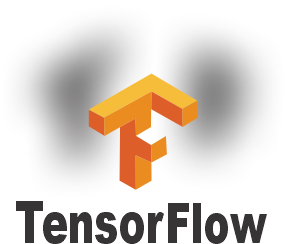
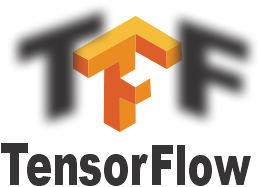
subi proyectos

diff --git a/work.html b/work.html
@@ -50,9 +50,12 @@
             <img src="/assets/icons-tech/phpmMyAdmin.png" class="icons--tech icons--tech-other icons--tech-myAdmin">
             <img src="/assets/icons-tech/c.png" class="icons--tech icons--tech-other icons--tech-c">
             <img src="/assets/icons-tech/unity.png" class="icons--tech icons--tech-other icons--tech-unity">
+            <img src="/assets/icons-tech/c-mas-mas.png" class="icons--tech icons--tech-other icons--tech-c-mas-mas">
+            <img src="/assets/icons-tech/kaggle.png" class="icons--tech icons--tech-other icons--tech-kaggle">
+            <img src="/assets/icons-tech/docker.png" class="icons--tech icons--tech-other icons--tech-docker">
         </div>
     </div>
-    <h2 class="work--title align">More Skills</h2>
+    <h2 class="work--title work--title-skills align">More Skills</h2>
     <div class="icons--container-skills between">
         <img src="/assets/icons-tech/joomla.png" class="icons--skills icons--skills-jupyter">
         <img src="/assets/icons-tech/jupyter.png" class="icons--skills icons--skills-joomla">
@@ -62,12 +65,77 @@
         <img src="/assets/icons-tech/typing.png" class="icons--skills icons--skills-typing">
         <img src="/assets/icons-tech/interpreting.png" class="icons--skills icons--skills-interpreting">
     </div>
-    <h2 class="work--title align">See my Work</h2>
-    <div class="show--container">
-        
+
+    <div class="work--seeMyWork-container">
+        <h2 class="work--title Work--title-seeMyWork align">See my Work</h2>
+        <div class="show--container">
+            <div class="show--cont show--cont-left">
+                <p class="about--titles">
+                    Full Stack
+                </p>
+                <p class="about--parrs">
+                    <div class="work--parrs">
+                        <a href="https://interpreter-ymy6.onrender.com/" target="_blank">
+                        <div class="work--parrs-cont work--parrs-interpreter">
+                            <img src="/assets/proj-img/interpreter.png" class="ocho--img">
+                            <p class="parrs--title">
+                                Interpreter
+                            </p>
+                            <p class="parrs--parr">
+                                Este es un Interpreter hecho para Cáritas, (Gratuito) tarda en cargar, 72% de Exactitud.
+                            </p>
+                        </div>
+                        </a>
+                        <a href="https://calculadora-pmcl.onrender.com/" target="_blank">
+                        <div class="work--parrs-cont work--parrs-interpreter">
+                            <img src="/assets/proj-img/calculadora.png" class="cuatro--img">
+                            <p class="parrs--title">
+                                Calculadora
+                            </p>
+                            <p class="parrs--parr">
+                                Este es una Calculadora con funciones específicas (Comparador de Precios)
+                            </p>
+                        </div>
+                        </a>
+                    </div>
+                </p>
+            </div>
+            <div class="show--cont show--cont-med">
+                <p class="about--titles">
+                    Diseños
+                </p>
+                <p class="about--parrs">
+                    <div class="work--parrs">
+                        <a href="https://teclado-portugues.onrender.com/" target="_blank">
+                        <div class="work--parrs-cont work--parrs-teclado">
+                            <img src="/assets/proj-img/teclado.png" class="ocho--img">
+                            <p class="parrs--title">
+                                Teclado
+                            </p>
+                            <p class="parrs--parr">
+                                Este es un teclado hecho para Cáritas que sirve para aprender mecanografía
+                            </p>
+                        </div>
+                        </a>
+                    </div>
+                </p>
+            </div>
+            <div class="show--cont show--cont-right">
+                <p class="about--titles">
+                    AI y Machine Learning (ML)
+                </p>
+                <p class="about--parrs">
+                    <div class="work--parrs">
+                        
+                    </div>
+                </p>
+            </div>
+        </div>
     </div>
-    
+
 </div>
+
+
 <script src="/scrpt.js"></script>
 </body>
 </html>

diff --git a/style.css b/style.css
@@ -1,3 +1,10 @@
+*{
+    margin: 0;
+    padding: 0;
+    box-sizing: border-box;
+    text-decoration: none;
+}
+
 /** Menu */
 
 .menu--cont{
@@ -739,6 +746,11 @@
     font-size: 3vw;
 }
 
+.work--title-skills{
+    margin-top: 1.5vw;
+    margin-bottom: 1vw;
+}
+
 .icons--container-cont{
     display: flex;
     width: 98.5vw;
@@ -759,18 +771,18 @@
     top: 0;
     left: 0;
     width: 100%;
-    height: 100%;
+    height:200%;
     background-color: #ddd;
 }
 
 .icons--container{
-    width: 96vw;
+    width: 90vw;
     left: 10vw;
     height: 60vh;
     padding: 2vh 2vw;
     border-radius: 15px;
     border: 3px solid white;
-    margin-left: 1vw;
+    margin: 1vw;
     margin-top: 2vh;
 }
 
@@ -802,7 +814,7 @@ grid-template-columns: repeat(3, 1fr);
 
 .icons--container-other{
     display: grid;
-    grid-template-columns: 1fr 1fr;
+    grid-template-columns: repeat(3, 1fr);
     justify-items: center;
     text-align: center;
     padding-top: 10vh;
@@ -811,13 +823,65 @@ grid-template-columns: repeat(3, 1fr);
 .icons--container-skills{
     padding: 1vw;
     border: 3px solid white;
-    width: 98vw;
-    margin-left: 1vw;
+    width: 96vw;
+    margin: 1vw;
     border-radius: 15px;
     padding: 1vh 1vw;
     display: flex;
 }
 
+.work--seeMyWork-container{
+    height: 95vh;
+    margin-top: -6vh;
+}
+
+.show--container{
+    display: flex;
+    gap: 1vw;
+    margin: 1vw;
+}
+
+.show--cont{
+    border: 3px solid white;
+    height: auto;
+    width: 32.5%;
+    padding: 2vw 1.5vw;
+    border-radius: 10px;
+
+}
+
+.work--parrs-cont {
+    border: 1px solid orangered;
+    padding: .5vw;
+    border-radius: 10px;
+}
+
+.parrs--title{
+    font-weight: 600;
+    margin: 1vw;
+    text-align: center;
+}
+
+.parrs--parr{
+    font-family: sans-serif;
+}
+
+.work--parrs{
+    display: grid;
+    grid-template-columns: 1fr 1fr;
+}
+
+.cuatro--img{
+    width: 8vw;
+    height: 6vw;
+    margin-left: 2.5vw;
+}
+
+.ocho--img{
+    width: 10vw;
+    height: 6vw;
+    margin-left: 1.5vw;
+}
 
 
 /** About */

diff --git a/md.md b/md.md
@@ -4,21 +4,16 @@ Por arreglar:
 
 Tech;
 
-Acomodar icons (Asegurar que queden dentro del bgc gris)
-Dejar "More Skills" dentro del bgc gris
-Trabajar "See my work" con los proyectos de render (Por lo pronto)
-El logo de Tensorflow tiene mucho gausiano, quietarle un poco
-
-En "See my Work";
-    separarlo en 3 partes
-        Full Stack, Diseños, y AI y ML
+- Acomodar iconos
+- Poner los proyectos ya en linea (render al menos)
 
 -----------------
 
 Curriculum;
 
-Crecer la letra de los botones
-Trabajar los displays (pensar en bgc o bgi)
+- Trabajar más los displays (pensar en bgc o bgi)
+- Falta Habilidades
+
 
 -----------------
 
